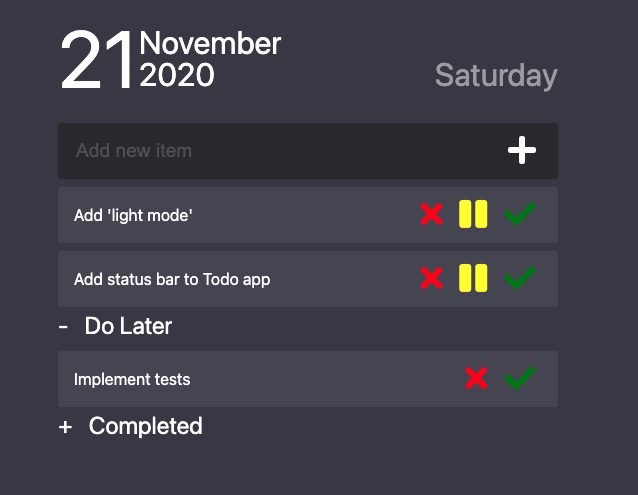
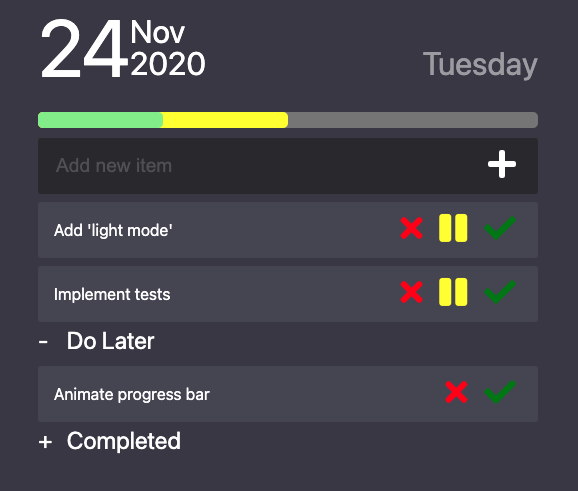
update readme

diff --git a/todo/views.py b/todo/views.py
@@ -33,8 +33,8 @@ def index(request):
     complete_list = Todo.objects.order_by("-date").filter(complete=True)
     sum_list = len(task_list) + len(pause_list) + len(complete_list)
     if sum_list > 0:
-        pause_bar = str(((len(pause_list) + len(complete_list)) / sum_list)*100) + "%"
-        complete_bar = str((len(complete_list) / (sum_list))*100) + "%"
+        pause_bar = str(((len(pause_list) + len(complete_list)) / sum_list) * 100) + "%"
+        complete_bar = str((len(complete_list) / (sum_list)) * 100) + "%"
     template = loader.get_template("todo/index.html")
     context = {
         "tasks": task_list,

diff --git a/todo/README.md b/todo/README.md
@@ -8,6 +8,8 @@ Replicating a Todo app in Django for practice and fun.
 
 Learned how to modify database entries from the front end or user perspective without having to go into an admin or command line interface. I'm also getting better at front end elements with containers and implemented some Font Awesome icons.
 
+Learned how to properly handle redirects to clear responses so a refresh doesn't resend data.
+
 ## Challenges I faced
 
 I had an issue deploying to Heroku due to some iterations I made along the way to the database model and had to manually edit migration files in order for the database to be properly created and deployed.
@@ -16,7 +18,8 @@ Another challenge I faced was working with the collapsible menues; I had an issu
 
 ## Improvements
 
-Create accounts so tasks aren't shared or modifiable by everyone.
-Add the progress bar to show how much has been done.
-Limit the tasks to one week in duration with proper database filtering.
-Animate collapse icon for smoother transition.
+- [ ] Create accounts so tasks aren't shared or modifiable by everyone.
+- [x] Add the progress bar to show how much has been done.
+- [ ] Limit the tasks to one week in duration with proper database filtering.
+- [x] Animate collapse icon for smoother transition.
+- [ ] Animate progress bar on task changes
